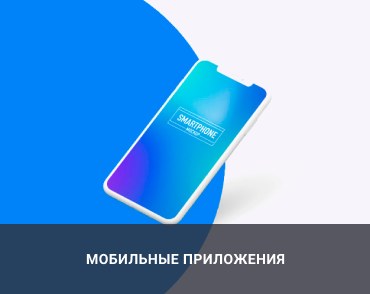
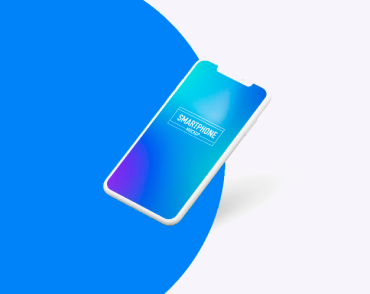
+іконки на соц мережі
добавиі іконки на соц мережі для членів команди

Changed region(s): [[0.0, 0.7347, 1.0, 1.0]]

diff --git a/index.html b/index.html
@@ -87,12 +87,13 @@
           </li>
         </ul>
       </section>
+      <!-- секция Чем мы занимаемся-->
       <section class="our_products">
         <h2>Чем мы занимаемся</h2>
         <ul>
           <li>
             <img
-              src="./images/Desktop.svg"
+              src="./images/Desktop.jpg"
               alt="Desktop"
               width="370"
               height="294"
@@ -101,7 +102,7 @@
           </li>
           <li>
             <img
-              src="./images/mobile.svg"
+              src="./images/mobile.jpg"
               alt="mobile"
               width="370"
               height="294"
@@ -110,7 +111,7 @@
           </li>
           <li>
             <img
-              src="./images/design.svg"
+              src="./images/design.jpg"
               alt="design"
               width="370"
               height="294"
@@ -119,43 +120,158 @@
           </li>
         </ul>
       </section>
+      <!--section our team-->
       <section class="our_team">
         <h2>Наша команда</h2>
         <ul>
           <li>
             <img
-              src="./images/Nykolay.svg"
+              src="./images/Nykolay.jpg"
               alt="foto_Nykolay"
               width="270"
               height="260"
             />
             <h3>Николай Кучеренко</h3>
             <p>Product Designer</p>
+            <!--блок соц мережі start -->
+            <ul>
+              <li>
+                <a href=""
+                  ><img src="./images/Instagram.svg" alt="Instagram"
+                /></a>
+              </li>
+              <li>
+                <a href="">
+                  <img src="./images/Twitter.svg" alt="Twitter" />
+                </a>
+              </li>
+              <li>
+                <a href=""
+                  ><img src="./images/faceboock.svg" alt="faceboock"
+                /></a>
+              </li>
+              <li>
+                <a href=""><img src="./images/in.svg" alt="in" /></a>
+              </li>
+            </ul>
+            <!--блок соц мережі end -->
           </li>
           <li>
             <img
-              src="./images/Olga.svg"
+              src="./images/Olga.jpg"
               alt="foto_Olga"
               width="270"
               height="260"
             />
             <h3>Ольга Иванова</h3>
             <p>Frontend Developer</p>
+            <!--блок соц мережі start -->
+            <ul>
+              <li>
+                <a href=""
+                  ><img src="./images/Instagram.svg" alt="Instagram"
+                /></a>
+              </li>
+              <li>
+                <a href="">
+                  <img src="./images/Twitter.svg" alt="Twitter" />
+                </a>
+              </li>
+              <li>
+                <a href=""
+                  ><img src="./images/faceboock.svg" alt="faceboock"
+                /></a>
+              </li>
+              <li>
+                <a href=""><img src="./images/in.svg" alt="in" /></a>
+              </li>
+            </ul>
+            <!--блок соц мережі end -->
           </li>
           <li>
             <img
-              src="./images/Andriy.svg"
+              src="./images/Andriy.jpg"
               alt="foto_Andriy"
               width="270"
               height="260"
             />
             <h3>Андрей Шевченко</h3>
             <p>Marketing</p>
+            <!--блок соц мережі start -->
+            <ul>
+              <li>
+                <a href=""
+                  ><img src="./images/Instagram.svg" alt="Instagram"
+                /></a>
+              </li>
+              <li>
+                <a href="">
+                  <img src="./images/Twitter.svg" alt="Twitter" />
+                </a>
+              </li>
+              <li>
+                <a href=""
+                  ><img src="./images/faceboock.svg" alt="faceboock"
+                /></a>
+              </li>
+              <li>
+                <a href=""><img src="./images/in.svg" alt="in" /></a>
+              </li>
+            </ul>
+            <!--блок соц мережі end -->
           </li>
           <li>
-            <img src="./images/Ivan.svg" alt="fot_Ivan" />
+            <img src="./images/Ivan.jpg" alt="fot_Ivan" />
             <h3>Иван Николаев</h3>
             <p>UI Designer</p>
+            <!--блок соц мережі start -->
+            <ul>
+              <li>
+                <a href=""
+                  ><img src="./images/Instagram.svg" alt="Instagram"
+                /></a>
+              </li>
+              <li>
+                <a href="">
+                  <img src="./images/Twitter.svg" alt="Twitter" />
+                </a>
+              </li>
+              <li>
+                <a href=""
+                  ><img src="./images/faceboock.svg" alt="faceboock"
+                /></a>
+              </li>
+              <li>
+                <a href=""><img src="./images/in.svg" alt="in" /></a>
+              </li>
+            </ul>
+            <!--блок соц мережі end -->
+          </li>
+        </ul>
+      </section>
+      <!--SECTION constant customers-->
+      <section>
+        <h2>Постоянные клиенты</h2>
+        <ul>
+          <li>
+            <a href=""><img src="./images/YA&CO.svg" alt="" /></a>
+          </li>
+          <li>
+            <a href=""
+              ><img src="./images/Company_Tag_Line_Here.svg" alt=""
+            /></a>
+          </li>
+          <li>
+            <a href=""><img src="./images/Company.svg" alt="" /></a>
+          </li>
+          <li>
+            <a href=""><img src="./images/Foster_Peters.svg" alt="" /></a>
+          </li>
+          <li>
+            <a href=""><img src="./images/Brand.svg" alt="" /></a>
+          </li>
+          <li>
+            <a href=""><img src="./images/Company_Tag_Line.svg" alt="" /></a>
           </li>
         </ul>
       </section>
